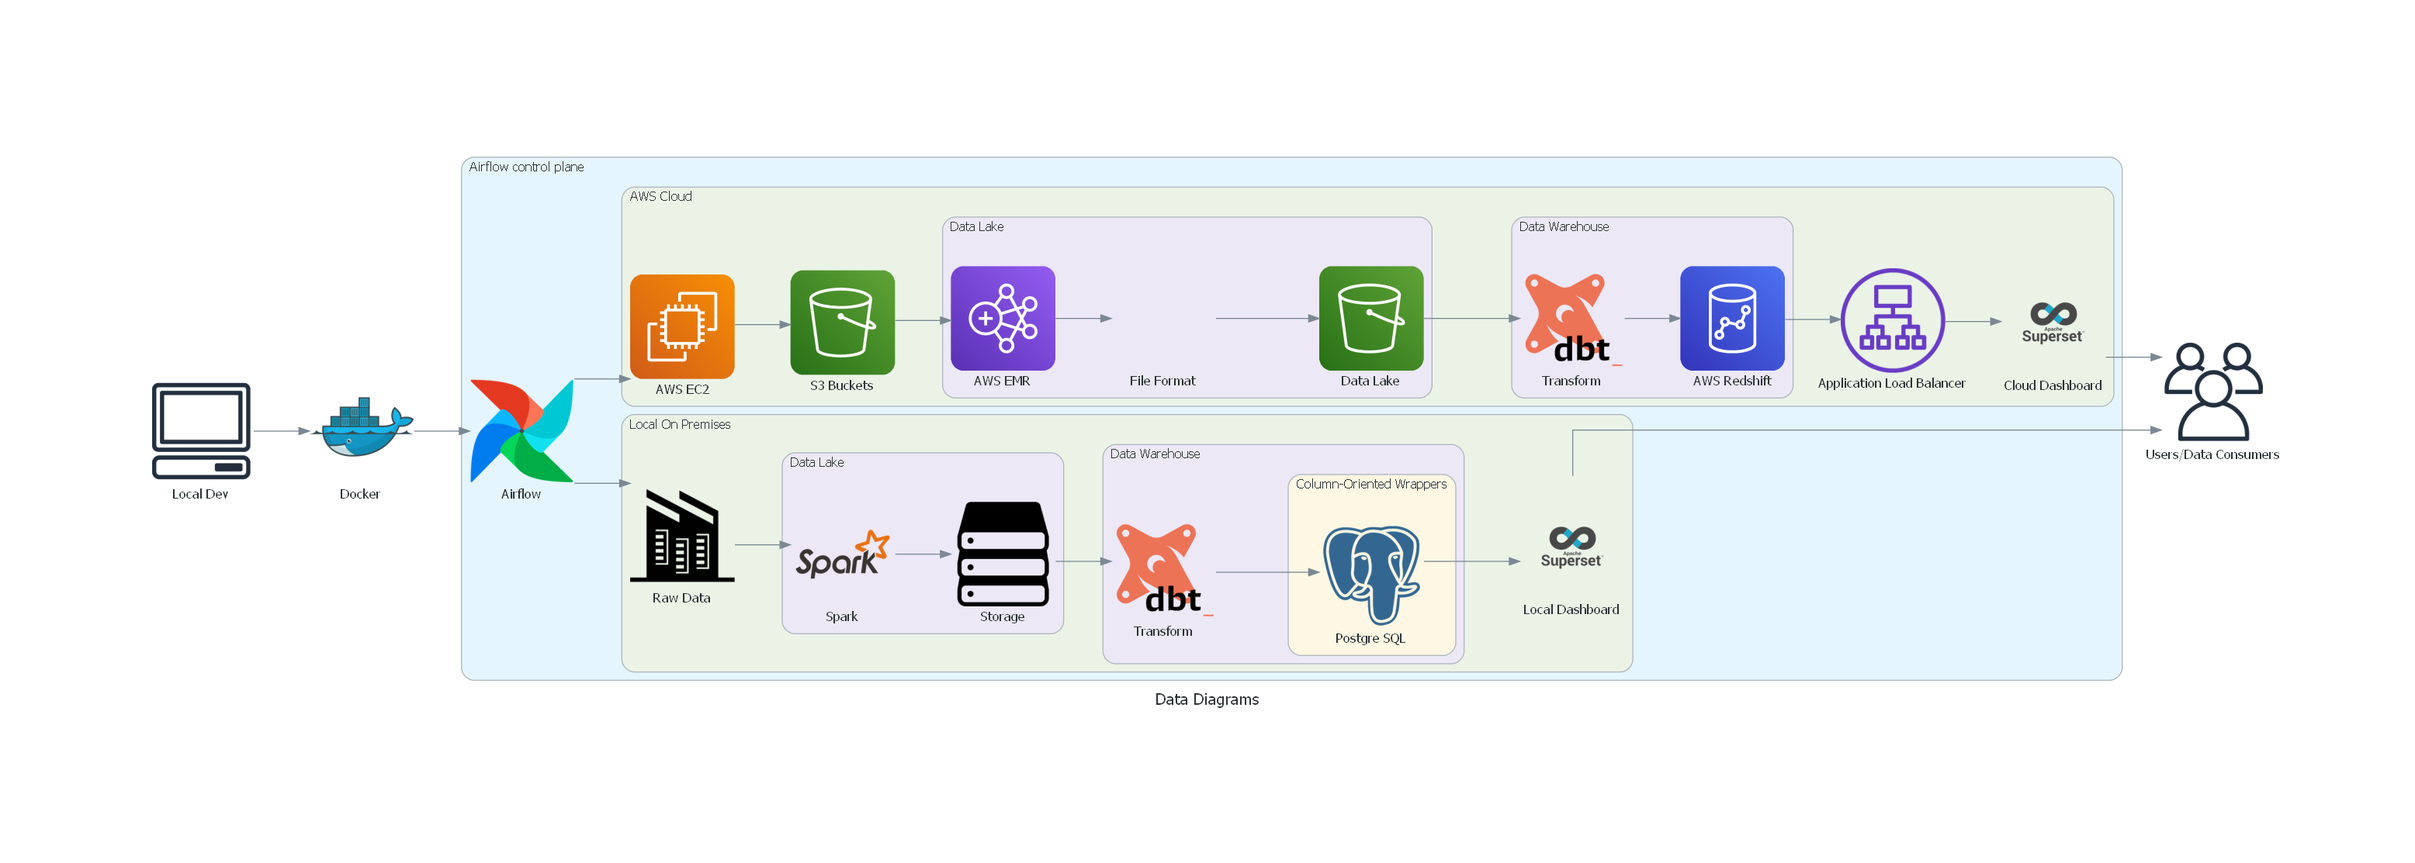
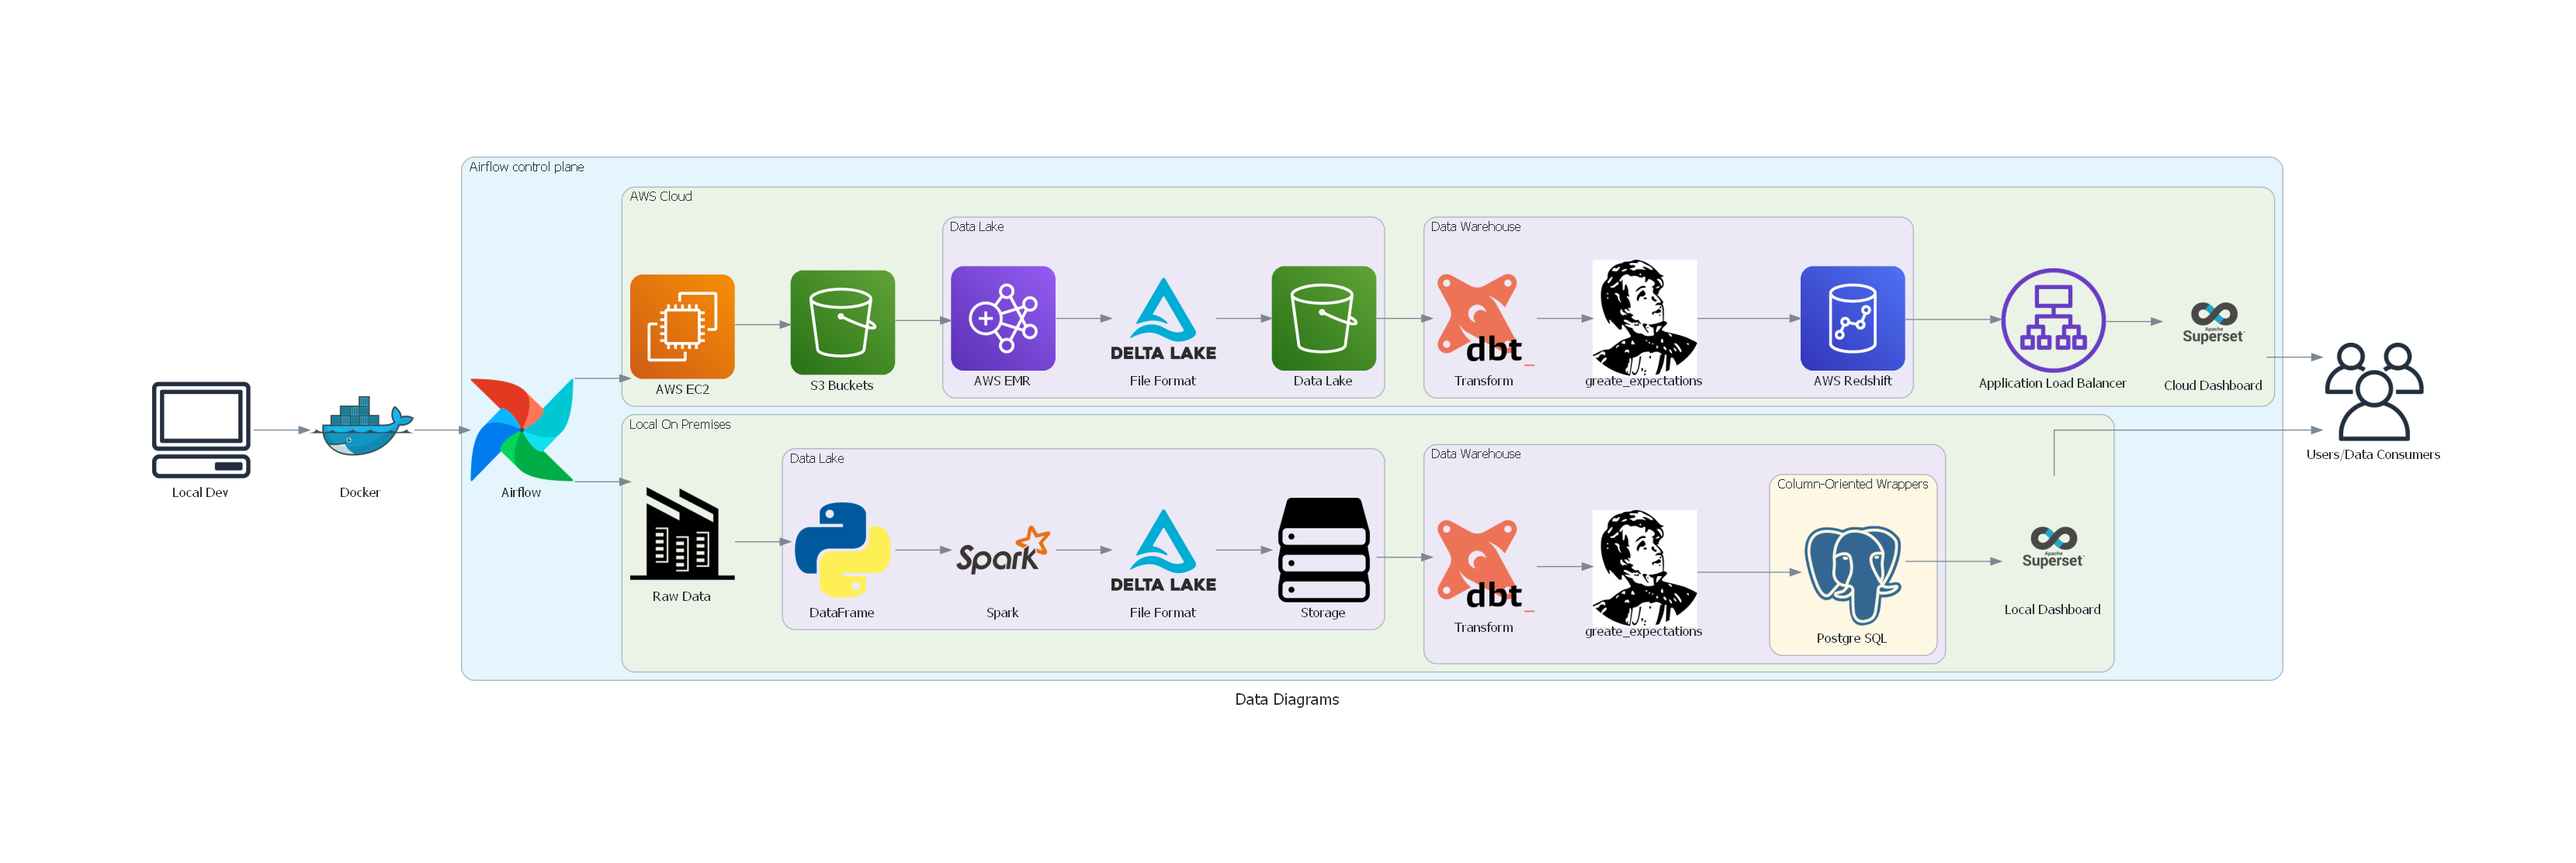
update

diff --git a/diagram.py b/diagram.py
@@ -1,5 +1,7 @@
 # make sure the Graphviz executables are on your systems' path
 import os
+
+from flask_login import AUTH_HEADER_NAME
 os.environ["PATH"] += os.pathsep + 'D:/Graphviz/bin/'
 
 
@@ -37,14 +39,17 @@ with Diagram(name="Data Diagrams", show=True, direction="LR"):
 
             with Cluster("Data Warehouse"):
                 dw_local_dbt = Dbt("Transform")
+                local_ge = Custom("greate_expectations","./custom_icons/ge.png")
                 with Cluster("Column-Oriented Wrappers"):
                     dw_local_postgresql = Postgresql('Postgre SQL')
 
             with Cluster("Data Lake"):
                 dw_local_spark = Spark("Spark")
+                local_df = Python("DataFrame")
+                local_dl = Custom("File Format","./custom_icons/dl.png")
                 dw_local_storage = Storage("Storage")
-                local_rawdata >> dw_local_spark >> dw_local_storage >> dw_local_dbt >> dw_local_postgresql
-            
+                local_rawdata >> local_df >> dw_local_spark >> local_dl >> dw_local_storage >> dw_local_dbt >> local_ge >> dw_local_postgresql
+                local_jp = Custom("File Format","./custom_icons/dl.png")
             superset1 =  Superset("Local Dashboard")
         
         with Cluster("AWS Cloud"):
@@ -52,6 +57,7 @@ with Diagram(name="Data Diagrams", show=True, direction="LR"):
 
             with Cluster("Data Warehouse"):
                 cloud_dbt = Dbt("Transform") 
+                cloud_ge = Custom("greate_expectations","./custom_icons/ge.png")
                 cloud_redshift = Redshift('AWS Redshift')
 
             cloud_s3 = S3("S3 Buckets")
@@ -60,7 +66,7 @@ with Diagram(name="Data Diagrams", show=True, direction="LR"):
                 cloud_emr= EMR('AWS EMR')
                 cloud_dl = Custom("File Format","./custom_icons/dl.png")
                 cloud_bucket = S3("Data Lake")
-                cloud_ec2 >> cloud_s3 >> cloud_emr >> cloud_dl >> cloud_bucket >> cloud_dbt >> cloud_redshift
+                cloud_ec2 >> cloud_s3 >> cloud_emr >> cloud_dl >> cloud_bucket >> cloud_dbt >> cloud_ge >> cloud_redshift
 
             cloud_alb = ElbApplicationLoadBalancer("Application Load Balancer")
             
@@ -76,3 +82,6 @@ with Diagram(name="Data Diagrams", show=True, direction="LR"):
     dw_local_postgresql >> superset1 >> users
     cloud_alb >> superset2 >> users
     
+Jupyter 
+Athena
+DataHub
